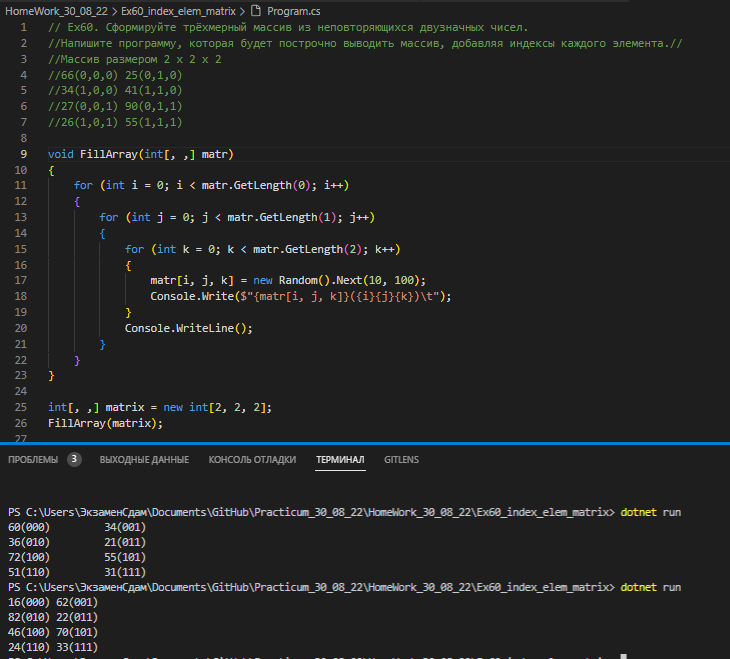
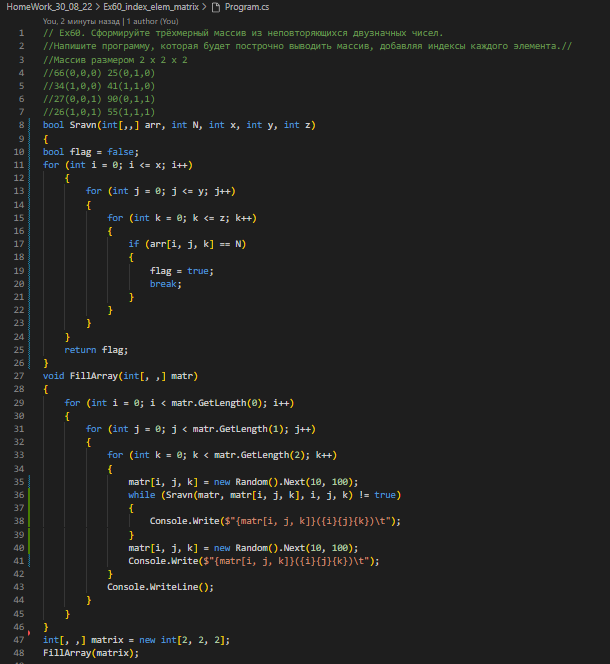
update solution Ex60 and Ex62

diff --git a/HomeWork_30_08_22/Ex62_fill_spiral_array/Program.cs b/HomeWork_30_08_22/Ex62_fill_spiral_array/Program.cs
@@ -3,30 +3,54 @@
 //12 13 14 05
 //11 16 15 06
 //10 09 08 07
-int[,] FillArray(int[,] matr)       //заполнение и печать массива
+void PrintArray(int[,] matr)
 {
-    int count = 0;
-    while (count < 4)
+    for (int i = 0; i < matr.GetLength(0); i++)
     {
-        int i = 0;
-        for (int k = 0; k < 4; k++)
+        for (int j = 0; j < matr.GetLength(1); j++)
         {
-            matr[i, k] = 10 * i + k + 1;
-            Console.Write($"{matr[i, k]} ");
-        }
-        Console.WriteLine();
-        int j = 3;
-        for (int k = 1; k < 4; k++)
-        {
-            matr[k, j] = 10 * (- j -1) + j + 2;
-            Console.Write($"{matr[k, j]} ");
+            Console.Write($"{matr[i, j]}\t");
         }
         Console.WriteLine();
     }
-
 }
-
-for (int i = 0; i < matr.GetLength(0); i++)
-int[,] matrix = new int[4, 4];
-FillArray(matrix);
+int[,] FillArraySpiral(int[,] matr)
+{
+    int count = 0;
+    int k = 1;
+    while (count < matr.GetLength(0) / 2 + 1)
+    {
+        int i = count;
+        for (int y = i; y < matr.GetLength(1) - count - 1; y++)     // проход направо
+        {
+            matr[i, y] = k;
+            k++;
+        }
+        int j = matr.GetLength(1) - count - 1;
+        for (int x = count; x < matr.GetLength(0) - count - 1; x++)  // проход вниз
+        {
+            matr[x, j] = k;
+            k++;
+        }
+        i = matr.GetLength(0) - count - 1;
+        for (int y = matr.GetLength(1) - count - 1; y > count; j--)     // проход налево
+        {
+            matr[i, y] = k;
+            k++;
+        }
+        j = count;
+        for (int x = matr.GetLength(0) - count - 1; x > count; x--)     // проход вверх
+        {
+            matr[x, j] = k;
+            k++;
+        }
+        count++;
+    }
+    return matr;
+}
+int m = 4;
+int n = 4;
+int[,] matrix = new int[m, n];
+int [,] resultSpiralArray = FillArraySpiral(matrix);
+PrintArray(resultSpiralArray);
 

diff --git a/HomeWork_30_08_22/Ex60_index_elem_matrix/Program.cs b/HomeWork_30_08_22/Ex60_index_elem_matrix/Program.cs
@@ -5,8 +5,26 @@
 //34(1,0,0) 41(1,1,0)
 //27(0,0,1) 90(0,1,1)
 //26(1,0,1) 55(1,1,1)
-
-void FillArray(int[, ,] matr)                  
+int Sravn(int[,,] arr, int N, int x, int y, int z)
+{
+    for (int i = 0; i < x; i++)
+    {  
+        for (int j = 0; j < y; j++)
+        {
+            for (int k = 0; k < z; k++)
+            {
+                if (arr[x, y, z] == N)
+                {
+                    Console.WriteLine("Такой элемент уже есть, меняем его на другой");
+                    arr[x, y, z] = new Random().Next(10, 100);;
+                    break;
+                }
+            }
+        }
+    }
+    return arr[x, y, z];
+}
+void FillArrayCondition(int[,,] matr)
 {
     for (int i = 0; i < matr.GetLength(0); i++)
     {
@@ -14,33 +32,18 @@ void FillArray(int[, ,] matr)
         {
             for (int k = 0; k < matr.GetLength(2); k++)
             {
-                matr[i, j, k] = new Random().Next(10, 100);    
+                //matr[i, j, k] = new Random().Next(10, 100);
+                int count = 1;
+                while (count <= (i + 1) * (j + 1) * (k + 1))
+                {
+                    matr[i, j, k] = Sravn(matr, matr[i, j, k], i, j, k);
+                    count++;
+                }       
                 Console.Write($"{matr[i, j, k]}({i}{j}{k})\t");
             }
             Console.WriteLine();
         }
     }
 }
-
-int[, ,] matrix = new int[2, 2, 2];
-FillArray(matrix);
-
-
-
-
- int[] GetUniqueSequencesWithMix(
-      int count, 
-      int startValue = 10)
- {
-  int[] set = new int[count]; 
-  int size = set.Length; 
-  for (int i = 0; i < size; i++)
-   set[i] = startValue + i;
-
-  for (int i=0; i<size-1; i++)
-  {
-   int pos = Random.Shared.Next(i + 1, size);
-   (set[i], set[pos]) = (set[pos], set[i]);
-  } 
- return set; 
-}
+int[,,] matrix = new int[2, 2, 2];
+FillArrayCondition(matrix);

diff --git a/README.md b/README.md
@@ -5,7 +5,7 @@
 * Ex53: Задайте двумерный массив. Напишите программу, которая поменяет местами первую и последнюю строку массива.
 
 * Ex55: Задайте двумерный массив. Напишите программу, которая заменяет строки на столбцы. В случае, если это невозможно, программа должна вывести сообщение для пользователя.
- 
+
 * Ex57: Составить частотный словарь элементов двумерного массива. Частотный словарь содержит информацию о том, сколько раз встречается элемент входных данных.
 
 * Ex59: Задайте двумерный массив из целых чисел. Напишите программу, которая удалит строку и столбец, на пересечении которых расположен наименьший элемент массива.
@@ -64,6 +64,7 @@
 
 * Ex58: Задайте две матрицы. Напишите программу, которая будет находить произведение двух матриц.
 Например, даны 2 матрицы:
+
 2 4 | 3 4
 
 3 2 | 3 3
